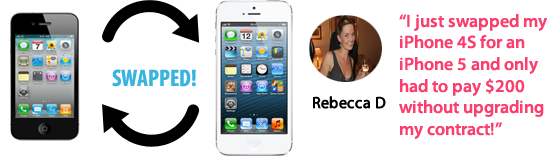
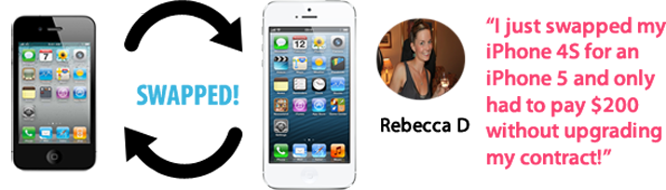
increased slider size

diff --git a/app/assets/stylesheets/application.css b/app/assets/stylesheets/application.css
@@ -970,14 +970,13 @@ width: 100%;
   font-family: 'myriad-s';
 }
 .index_success{
-  float: left;
-  width: 400px;
+  width: 500px;
   position:relative;
-  left: 500px !important;
-  bottom: 175px
+  bottom: 175px;
+  margin-left: 500px;
+
 }
 .success_img{
-  height:130px;
 }
 .rope_left{
   position: fixed;
